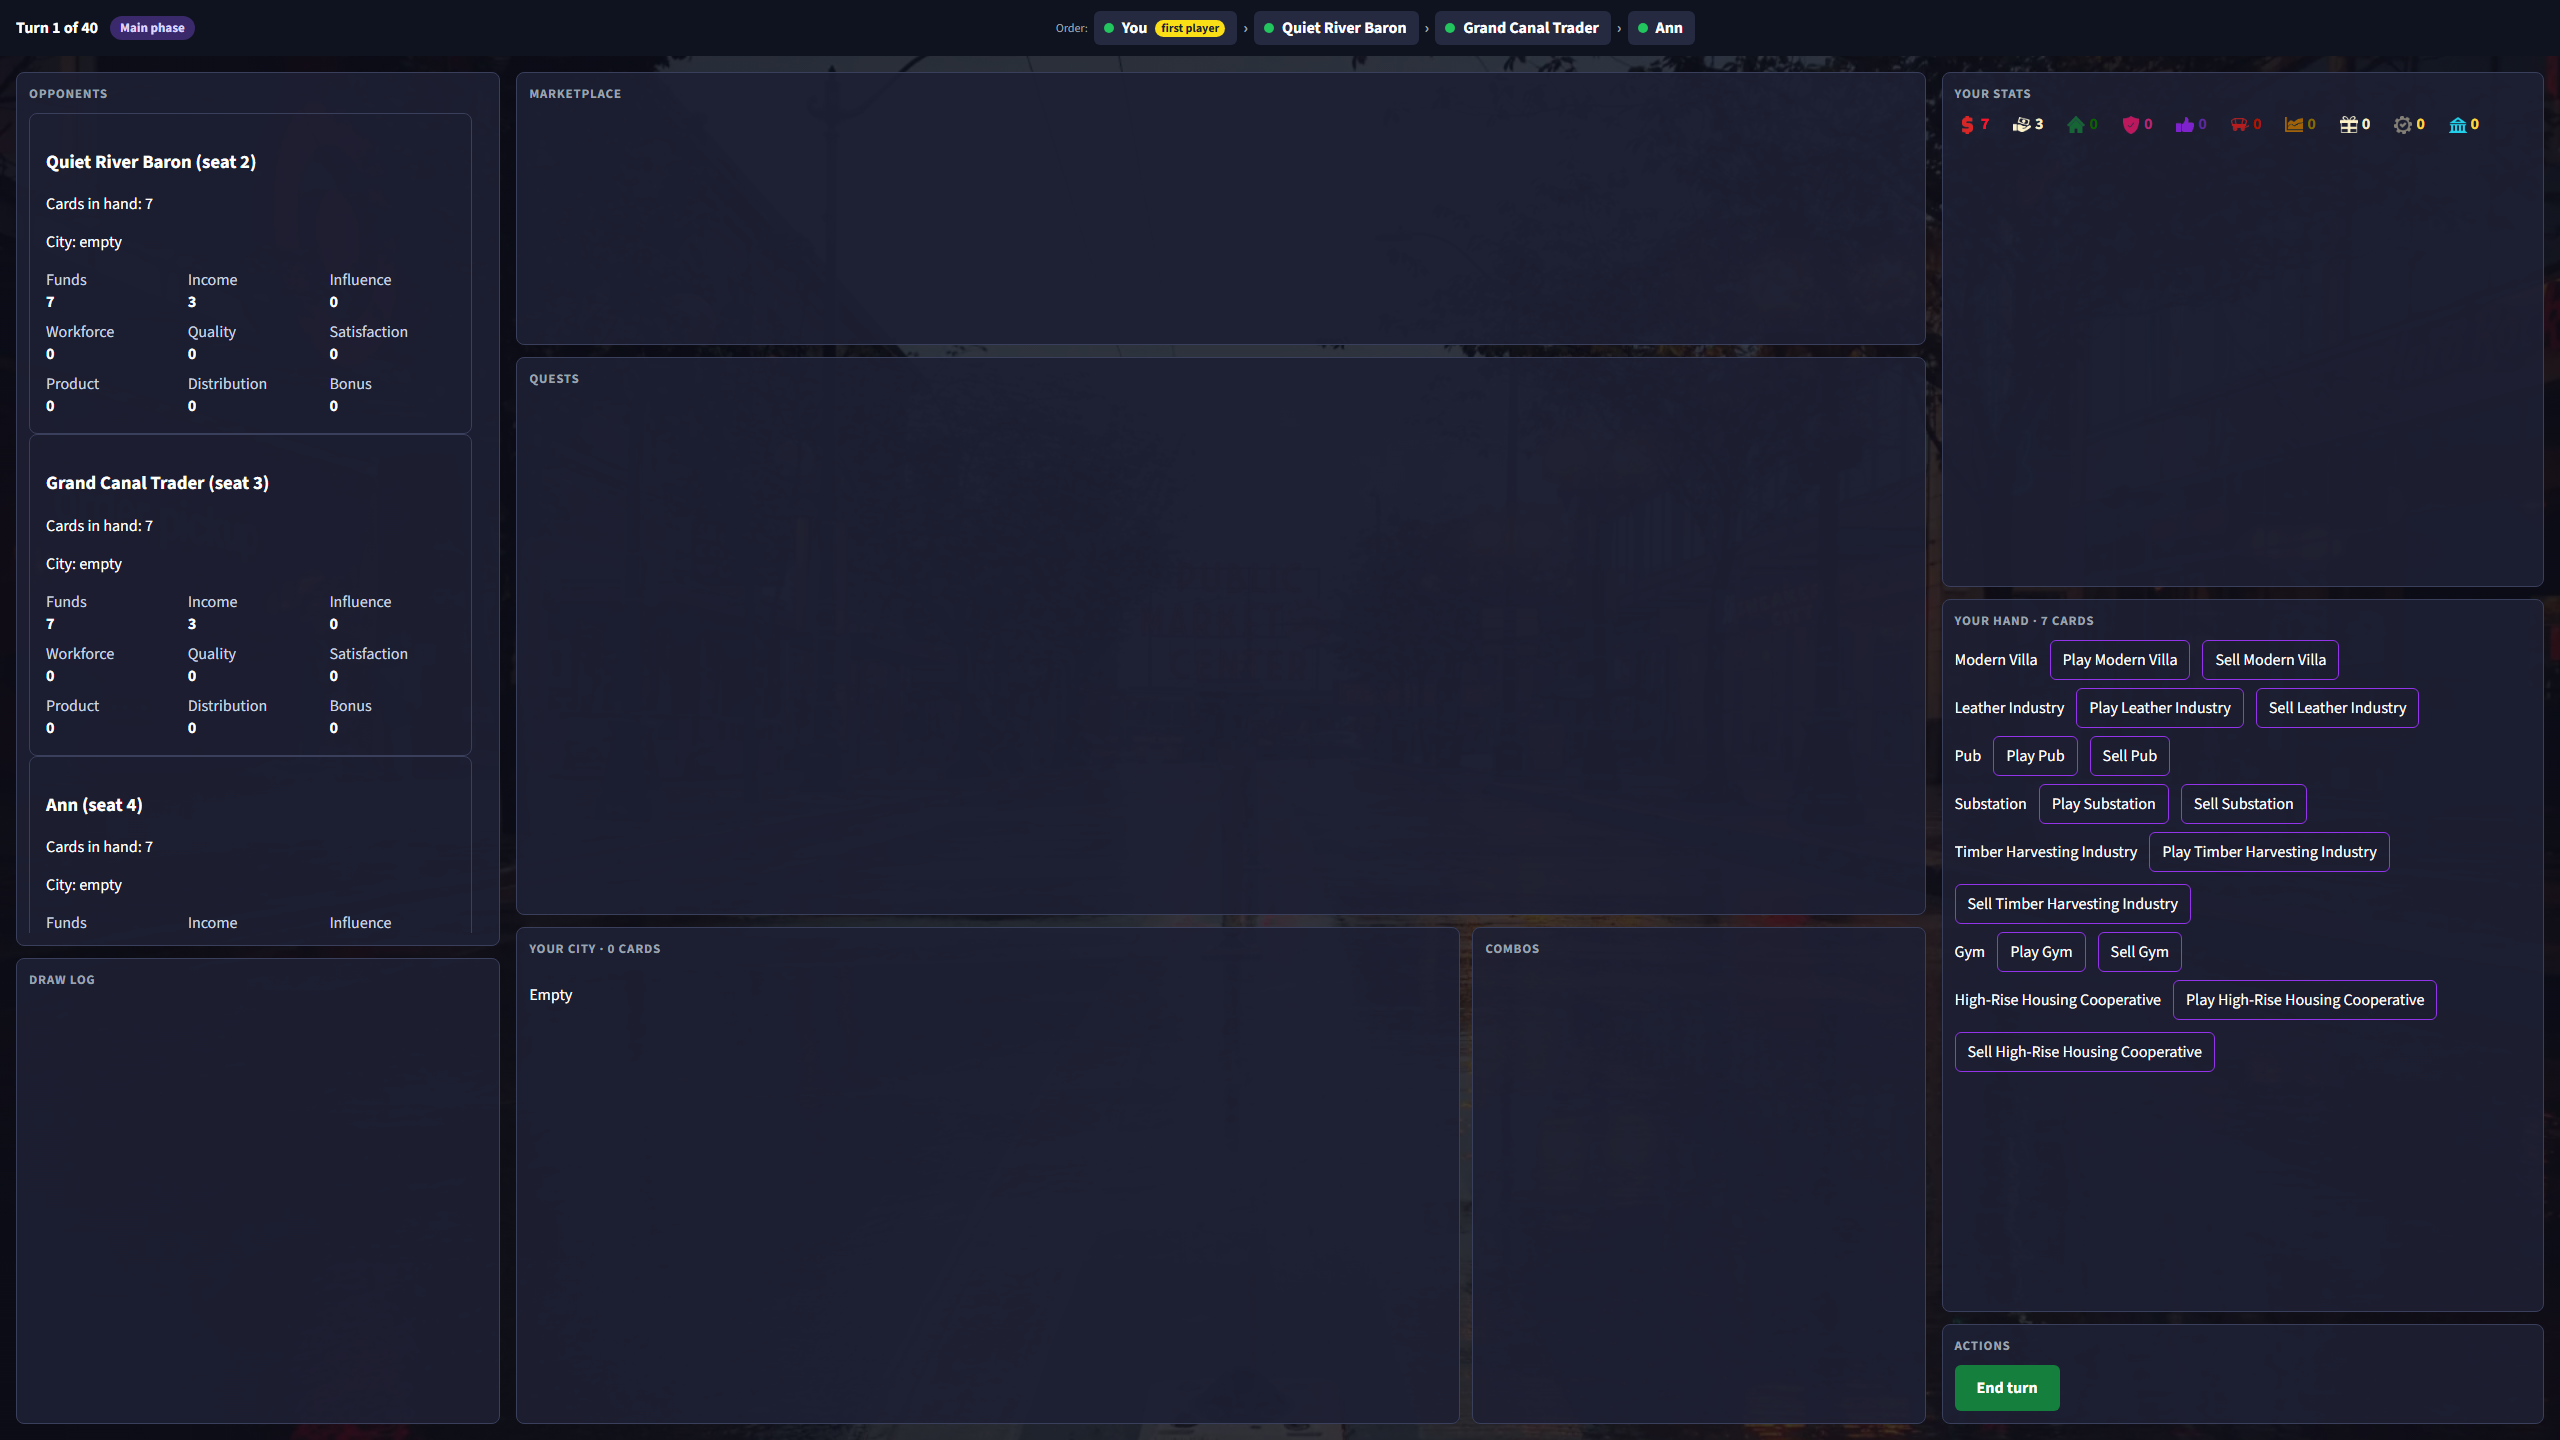
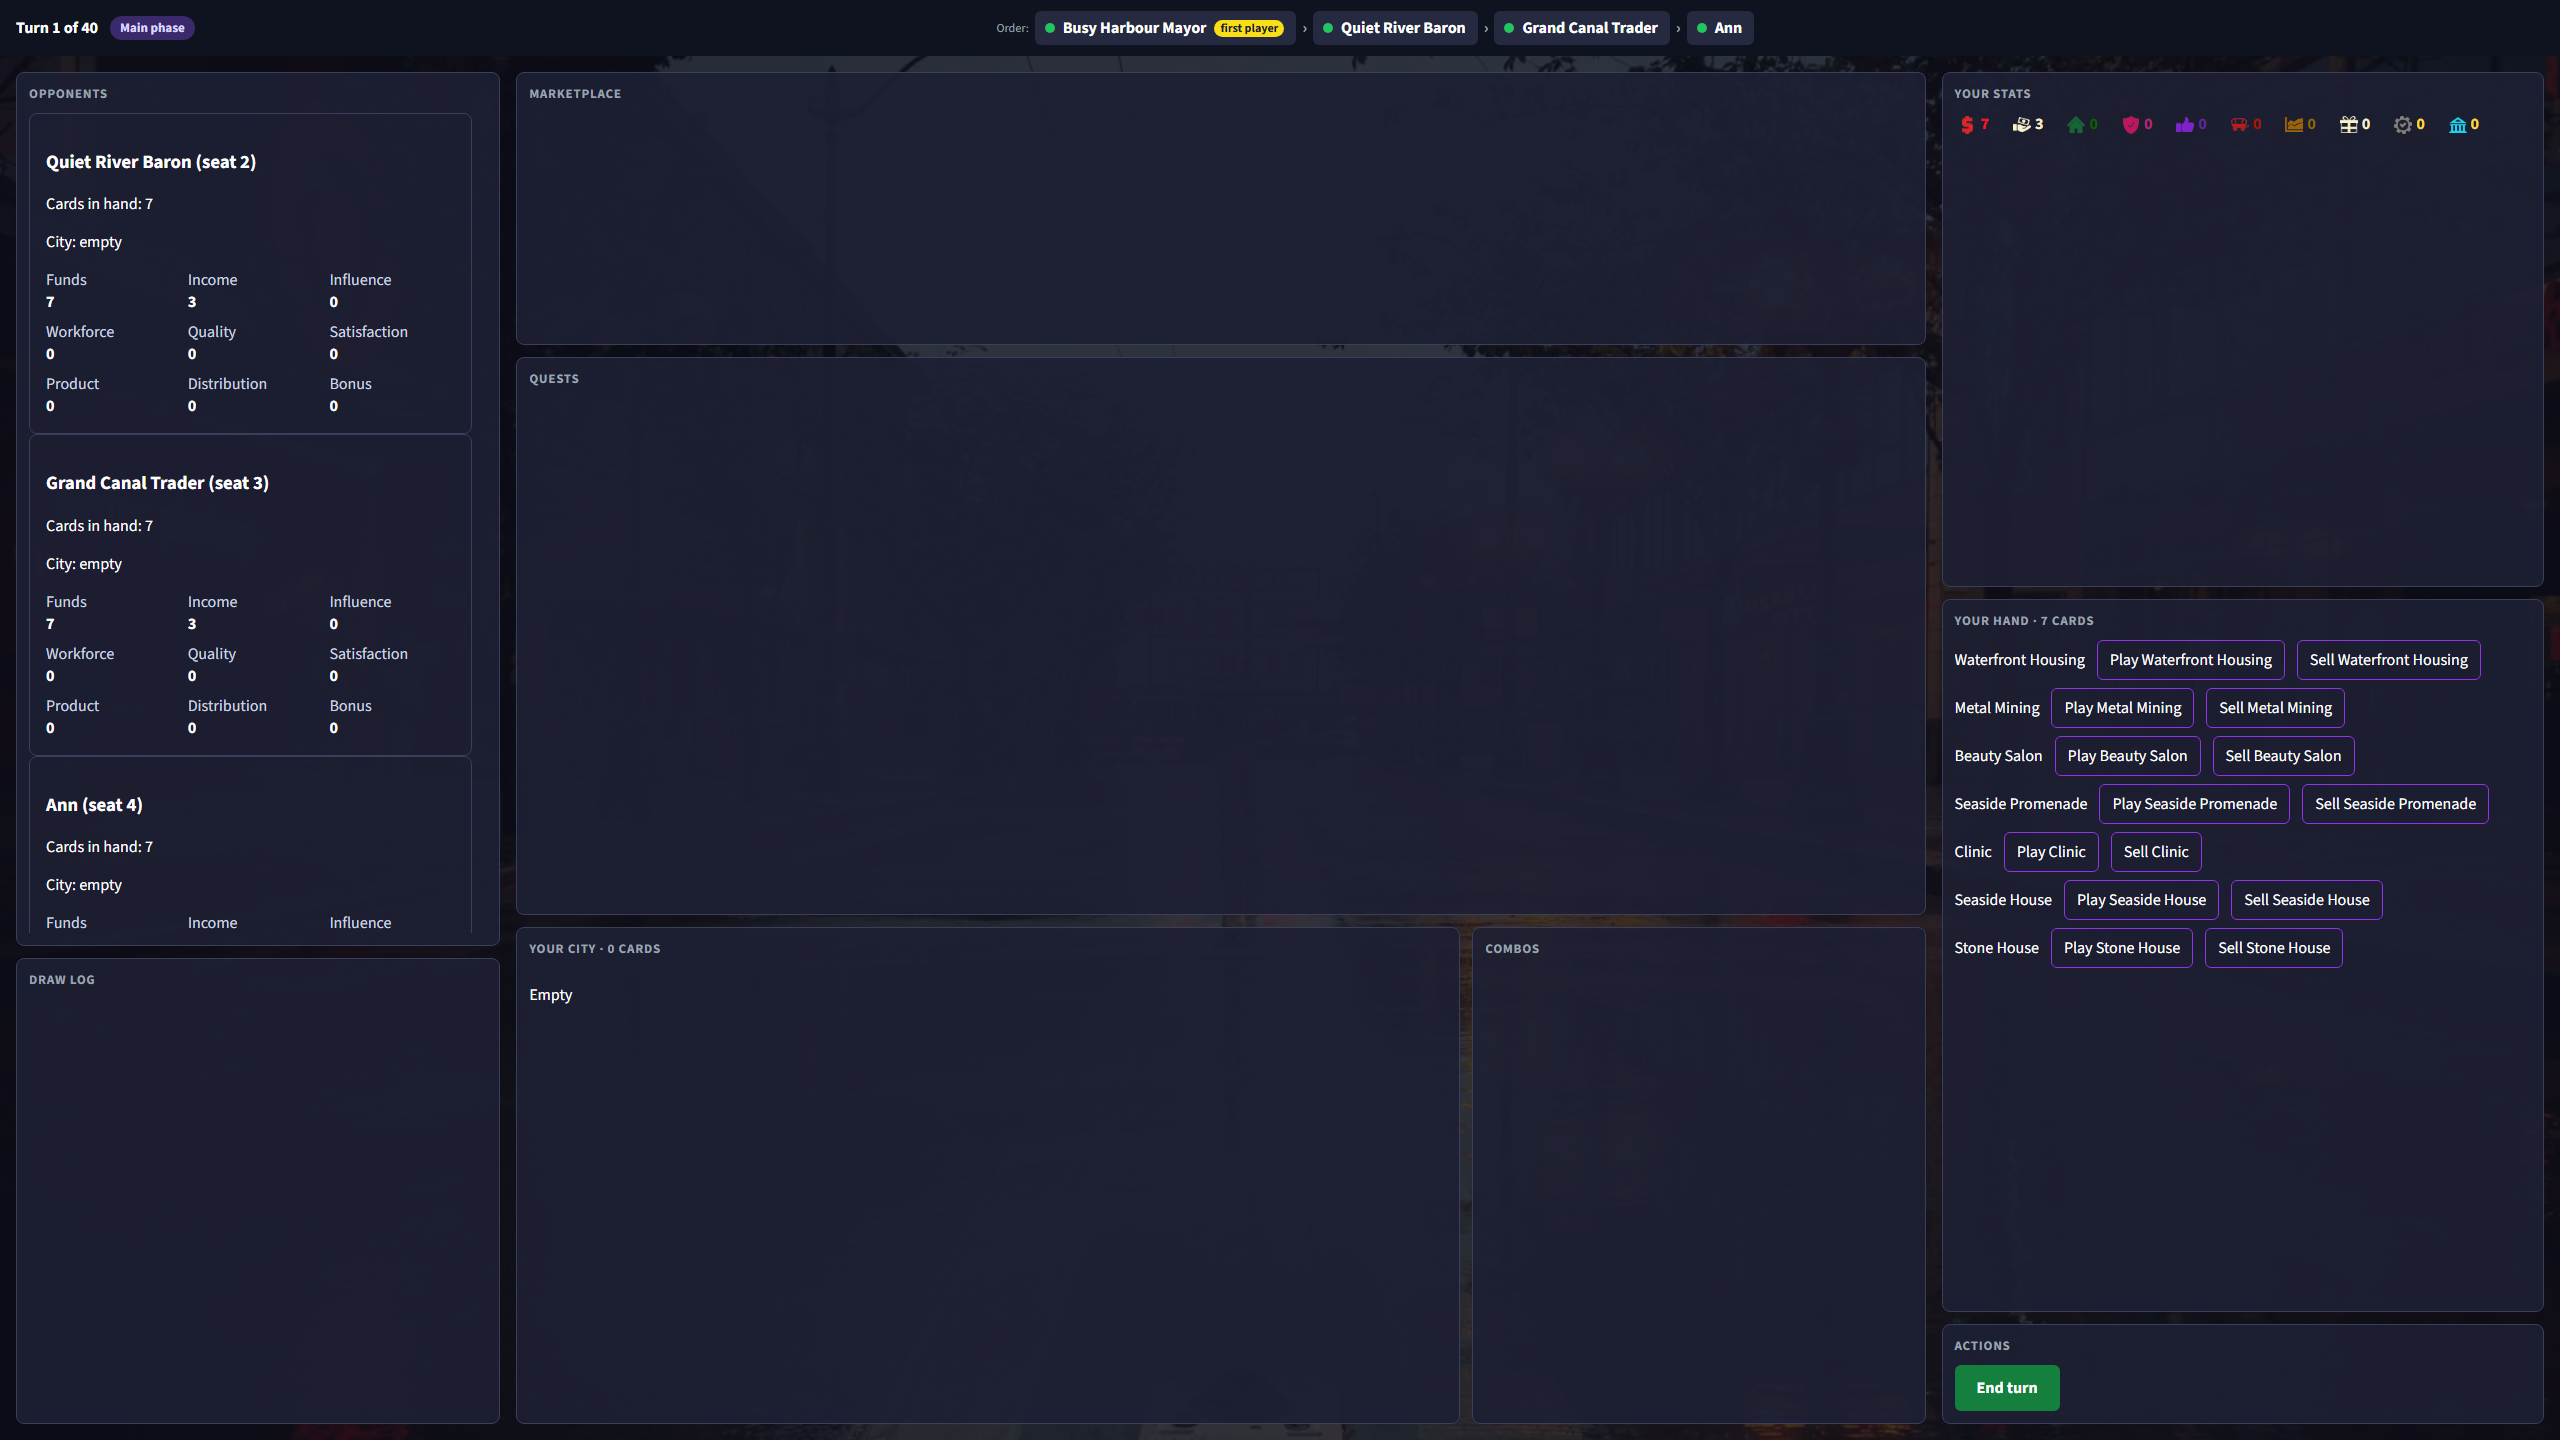
CLIENT: Size test finds the table by role and name and checks four players for leaks
Shared helpers for signing in and reading a hand; the test closes its
browser contexts.

Changed region(s): [[0.75, 0.4375, 0.9688, 0.75], [0.4062, 0.0, 0.6875, 0.0312]]

diff --git a/e2e/gameScreenSizes.spec.ts b/e2e/gameScreenSizes.spec.ts
@@ -1,32 +1,58 @@
 import AxeBuilder from "@axe-core/playwright";
-import { expect, test, type Browser, type Page, type ViewportSize } from "@playwright/test";
+import { expect, test, type Page, type ViewportSize } from "@playwright/test";
+import { handOf } from "./handOf";
+import type { Player } from "./Player";
+import { signedInPlayer } from "./signedInPlayer";
 
 const MINIMUM_TARGET_PX = 24;
 const LONGEST_NAMES = ["Busy Harbour Mayor", "Quiet River Baron", "Grand Canal Trader", "Ann"];
+const TABLE_PANELS = [
+  "Opponents",
+  "Draw log",
+  "Marketplace",
+  "Quests",
+  /^Your city/,
+  "Combos",
+  "Your stats",
+  /^Your hand/,
+  "Actions",
+];
+const STAT_NAMES = [
+  "Funds",
+  "Income",
+  "Workforce",
+  "Quality",
+  "Satisfaction",
+  "Product",
+  "Distribution",
+  "Bonus",
+  "Build passes",
+  "Influence",
+];
 
-async function signedInPage(browser: Browser, name: string, viewport: ViewportSize): Promise<Page> {
-  const page = await (await browser.newContext({ viewport })).newPage();
-  await page.goto("/");
-  await page.getByLabel("Your name").fill(name);
-  await page.getByRole("button", { name: "Continue" }).click();
-  await expect(page.getByRole("heading", { name: `Hello, ${name}` })).toBeVisible();
-  return page;
-}
-
-async function startFourPlayerGame(browser: Browser, viewport: ViewportSize): Promise<Page> {
-  const [hostName = "", ...guestNames] = LONGEST_NAMES;
-  const host = await signedInPage(browser, hostName, viewport);
-  await host.getByLabel("Players").selectOption("4");
-  await host.getByRole("button", { name: "Create room" }).click();
-  await expect(host.getByRole("heading", { name: "Waiting for players" })).toBeVisible();
-  const code = (await host.getByLabel("Room code").textContent()) ?? "";
-  for (const name of guestNames) {
-    const guest = await signedInPage(browser, name, viewport);
-    await guest.getByLabel("Room code").fill(code);
-    await guest.getByRole("button", { name: "Join room" }).click();
+async function startFourPlayerGame(
+  browser: Parameters<typeof signedInPlayer>[0],
+  viewport: ViewportSize,
+): Promise<ReadonlyArray<Player>> {
+  const players = await Promise.all(
+    LONGEST_NAMES.map((name) => signedInPlayer(browser, name, viewport)),
+  );
+  const [host, ...guests] = players;
+  if (host === undefined) {
+    throw new Error("no players");
   }
-  await expect(host.getByRole("heading", { name: "Turn 1 of 40" })).toBeVisible();
-  return host;
+  await host.page.getByLabel("Players").selectOption("4");
+  await host.page.getByRole("button", { name: "Create room" }).click();
+  await expect(host.page.getByRole("heading", { name: "Waiting for players" })).toBeVisible();
+  const code = (await host.page.getByLabel("Room code").textContent()) ?? "";
+  for (const guest of guests) {
+    await guest.page.getByLabel("Room code").fill(code);
+    await guest.page.getByRole("button", { name: "Join room" }).click();
+  }
+  for (const player of players) {
+    await expect(player.page.getByRole("heading", { name: "Turn 1 of 40" })).toBeVisible();
+  }
+  return players;
 }
 
 async function targetsSmallerThanMinimum(page: Page): Promise<ReadonlyArray<string>> {
@@ -39,11 +65,43 @@ async function targetsSmallerThanMinimum(page: Page): Promise<ReadonlyArray<stri
   }, MINIMUM_TARGET_PX);
 }
 
+async function expectTableElements(page: Page): Promise<void> {
+  const order = page.getByRole("list", { name: "Player order" });
+  for (const name of LONGEST_NAMES) {
+    await expect(order.getByRole("listitem").filter({ hasText: name })).toBeVisible();
+  }
+  await expect(order.getByText("first player")).toBeVisible();
+  for (const panel of TABLE_PANELS) {
+    await expect(page.getByRole("region", { name: panel })).toBeVisible();
+  }
+  const stats = page.getByRole("region", { name: "Your stats" });
+  for (const stat of STAT_NAMES) {
+    await expect(stats.getByRole("img", { name: new RegExp(`^${stat} -?\\d+$`) })).toBeVisible();
+  }
+}
+
+async function hiddenCardsSentToOthers(
+  players: ReadonlyArray<Player>,
+): Promise<ReadonlyArray<string>> {
+  const hands = await Promise.all(players.map(async (player) => handOf(player.page)));
+  return players.flatMap((receiver, receiverIndex) =>
+    hands
+      .filter((ownerHand, ownerIndex) => ownerHand.length > 0 && ownerIndex !== receiverIndex)
+      .flat()
+      .filter((card) => receiver.frames.some((frame) => frame.includes(`"${card}"`))),
+  );
+}
+
 test("the game screen fits the window with large enough targets and no accessibility problems", async ({
   browser,
   viewport,
 }, testInfo) => {
-  const host = await startFourPlayerGame(browser, viewport ?? { width: 1920, height: 1080 });
+  const players = await startFourPlayerGame(browser, viewport ?? { width: 1920, height: 1080 });
+  const host = players[0]?.page;
+  if (host === undefined) {
+    throw new Error("no host");
+  }
+  await expectTableElements(host);
   await host.screenshot({
     path: `harness/screens/gameScreenSizes/game-${testInfo.project.name}.png`,
   });
@@ -52,4 +110,6 @@ test("the game screen fits the window with large enough targets and no accessibi
   );
   expect(await targetsSmallerThanMinimum(host)).toEqual([]);
   expect(await new AxeBuilder({ page: host }).analyze()).toHaveProperty("violations", []);
+  expect(await hiddenCardsSentToOthers(players)).toEqual([]);
+  await Promise.all(players.map(async (player) => player.page.context().close()));
 });

diff --git a/e2e/turnOne.spec.ts b/e2e/turnOne.spec.ts
@@ -1,30 +1,7 @@
 import AxeBuilder from "@axe-core/playwright";
-import { expect, test, type Browser, type Page } from "@playwright/test";
-
-type Player = { readonly page: Page; readonly frames: string[] };
-
-async function newPlayer(browser: Browser, name: string): Promise<Player> {
-  const context = await browser.newContext();
-  const page = await context.newPage();
-  const frames: string[] = [];
-  page.on("websocket", (socket) => {
-    socket.on("framereceived", (frame) => {
-      frames.push(String(frame.payload));
-    });
-  });
-  await page.goto("/");
-  await page.getByLabel("Your name").fill(name);
-  await page.getByRole("button", { name: "Continue" }).click();
-  await expect(page.getByRole("heading", { name: `Hello, ${name}` })).toBeVisible();
-  return { page, frames };
-}
-
-async function handOf(page: Page): Promise<ReadonlyArray<string>> {
-  const items = page.getByRole("list", { name: "Your hand" }).getByRole("listitem");
-  return items.evaluateAll((elements) =>
-    elements.map((element) => element.querySelector("span")?.textContent ?? ""),
-  );
-}
+import { expect, test, type Page } from "@playwright/test";
+import { handOf } from "./handOf";
+import { signedInPlayer } from "./signedInPlayer";
 
 async function sellFirstCardAndEndTurn(page: Page): Promise<void> {
   const [card] = await handOf(page);
@@ -34,8 +11,8 @@ async function sellFirstCardAndEndTurn(page: Page): Promise<void> {
 }
 
 test("two players play turn 1 together and never see each other's hands", async ({ browser }) => {
-  const ann = await newPlayer(browser, "Ann");
-  const bea = await newPlayer(browser, "Bea");
+  const ann = await signedInPlayer(browser, "Ann");
+  const bea = await signedInPlayer(browser, "Bea");
   await ann.page.getByRole("button", { name: "Create room" }).click();
   await expect(ann.page.getByRole("heading", { name: "Waiting for players" })).toBeVisible();
   const code = await ann.page.getByLabel("Room code").textContent();

diff --git a/e2e/signedInPlayer.ts b/e2e/signedInPlayer.ts
@@ -1,0 +1,22 @@
+import { expect, type Browser, type ViewportSize } from "@playwright/test";
+import type { Player } from "./Player";
+
+export async function signedInPlayer(
+  browser: Browser,
+  name: string,
+  viewport?: ViewportSize,
+): Promise<Player> {
+  const context = await browser.newContext(viewport === undefined ? {} : { viewport });
+  const page = await context.newPage();
+  const frames: string[] = [];
+  page.on("websocket", (socket) => {
+    socket.on("framereceived", (frame) => {
+      frames.push(String(frame.payload));
+    });
+  });
+  await page.goto("/");
+  await page.getByLabel("Your name").fill(name);
+  await page.getByRole("button", { name: "Continue" }).click();
+  await expect(page.getByRole("heading", { name: `Hello, ${name}` })).toBeVisible();
+  return { page, frames };
+}

diff --git a/e2e/handOf.ts b/e2e/handOf.ts
@@ -1,0 +1,8 @@
+import type { Page } from "@playwright/test";
+
+export async function handOf(page: Page): Promise<ReadonlyArray<string>> {
+  const items = page.getByRole("list", { name: "Your hand" }).getByRole("listitem");
+  return items.evaluateAll((elements) =>
+    elements.map((element) => element.querySelector("span")?.textContent ?? ""),
+  );
+}

diff --git a/e2e/Player.ts b/e2e/Player.ts
@@ -1,0 +1,3 @@
+import type { Page } from "@playwright/test";
+
+export type Player = { readonly page: Page; readonly frames: string[] };
